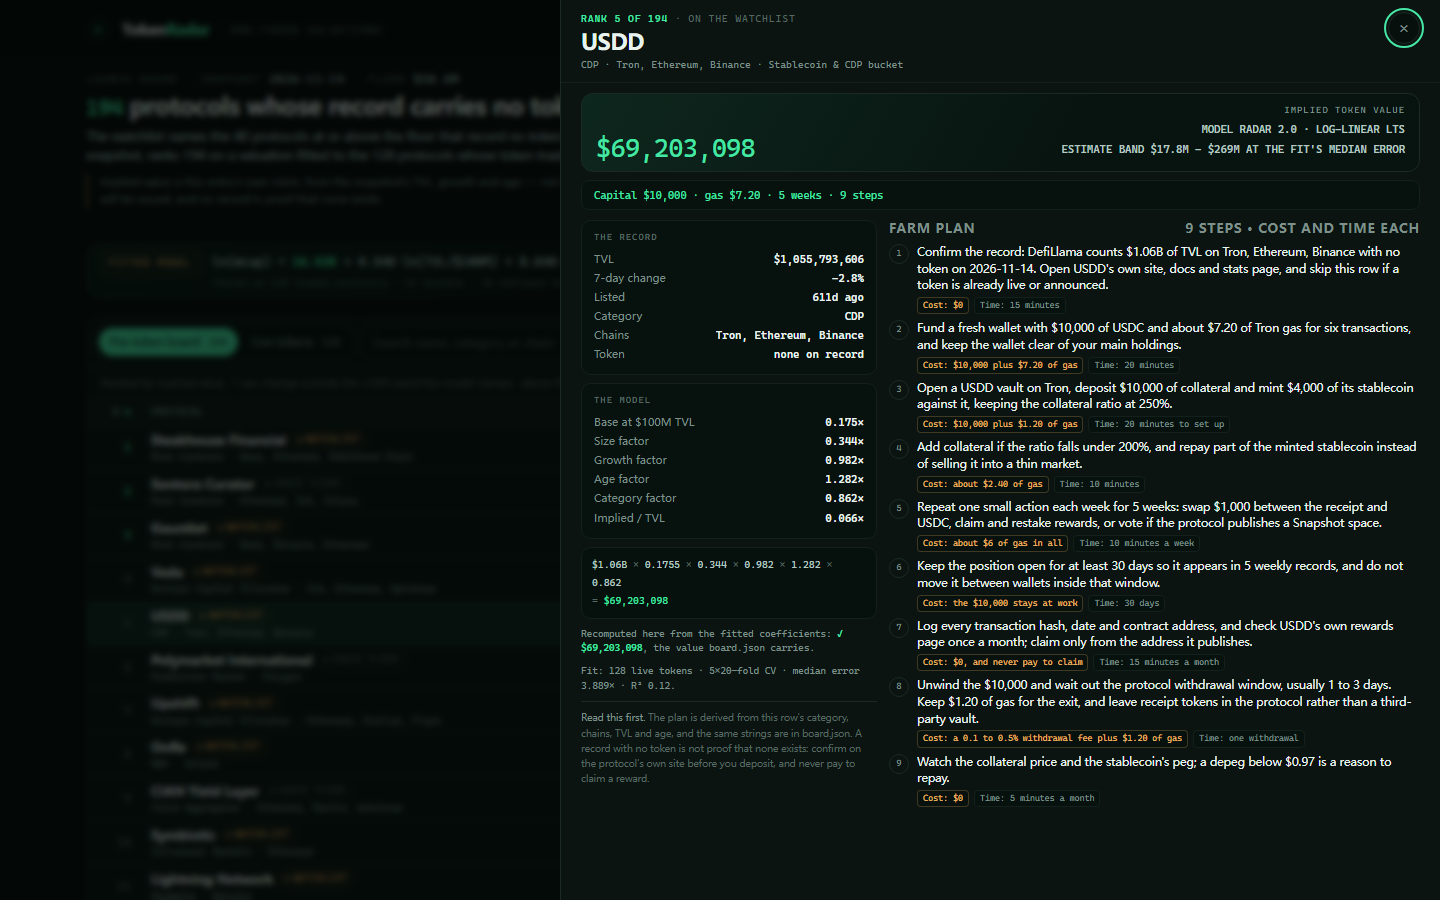
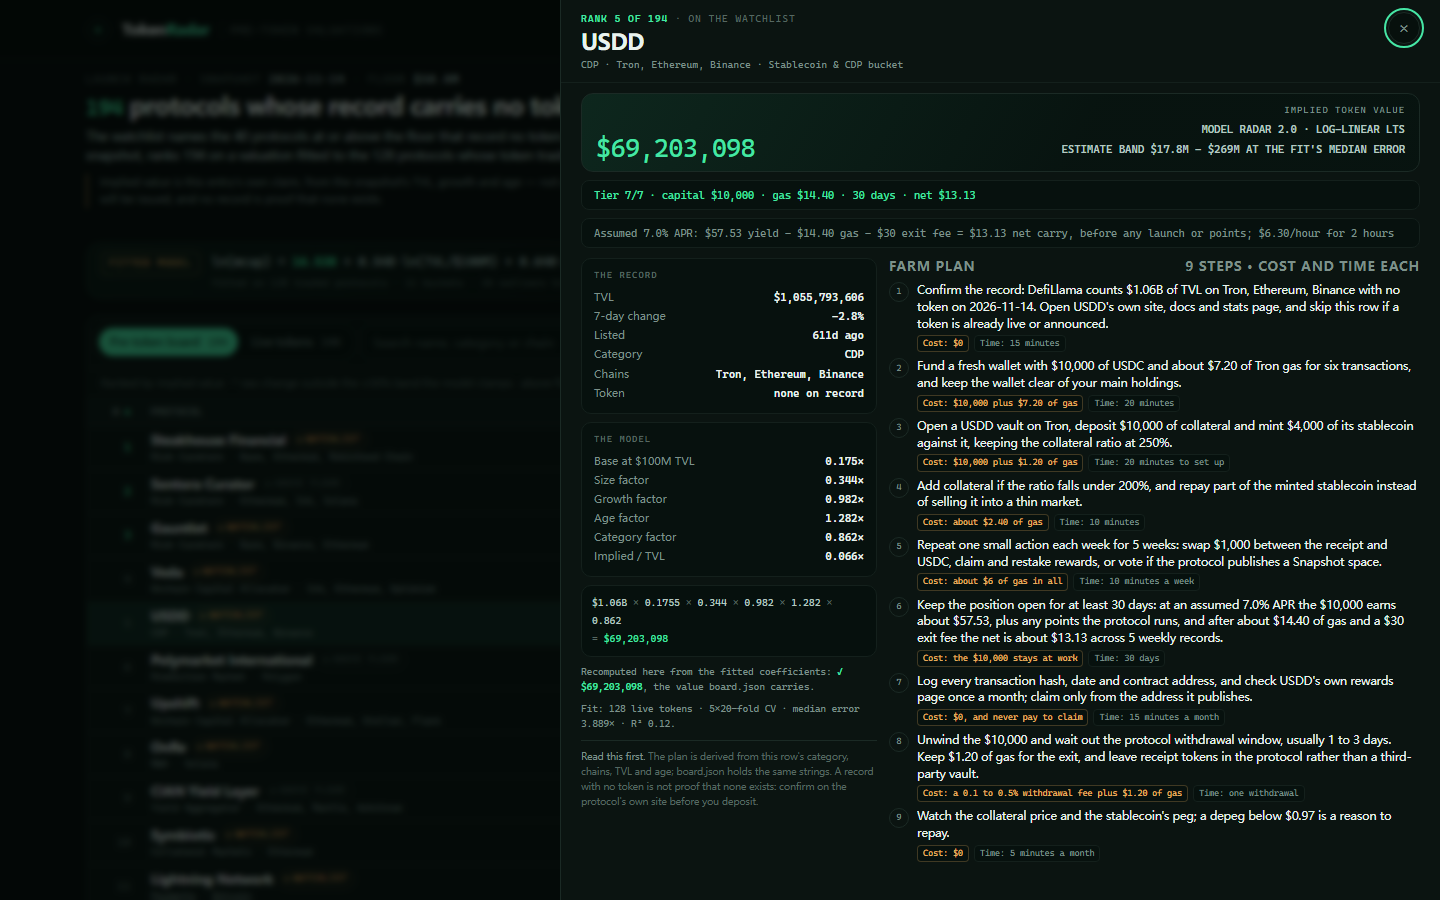
entry: v8 — costed farm verdicts, per-chain gas/fees, the model comparison

Changed region(s): [[0.4062, 0.2489, 1.0, 0.9644], [0.4375, 0.1867, 0.5625, 0.2178]]

diff --git a/dashboard/app.js b/dashboard/app.js
@@ -1,5 +1,5 @@
-// Token Radar — window.RADAR (main.ts) has the snapshot, model, board and live rows; every value is
-// recomputed from the coefficients and checked against board.json's.
+// Token Radar — the page reads window.RADAR (written by main.ts); every value is recomputed from the
+// fitted coefficients and checked against board.json.
 (function () {
   'use strict';
   var D = window.RADAR;
@@ -19,7 +19,7 @@
     if (!isNum(v)) return '—';
     return (v > 0 ? '+' : '') + v.toFixed(1) + '%';
   }
-  // The snapshot's 7-day change as reported, with a marker when the model clamps it to its band.
+  // The 7-day change as reported, marked when the model clamps it.
   function changeCell(row) {
     var raw = row.change_7d;
     if (!isNum(raw)) return { text: '—', cls: ' flat', title: '' };
@@ -59,7 +59,7 @@
     var value = Math.max(1, Math.round(row.tvl_usd * base * size * growth * age * category));
     return { base: base, size: size, growth: growth, age: age, category: category, value: value };
   }
-  // Plans travel in data.js; this exposes the page's arithmetic to the gate's browser check.
+  // Exposes the page's arithmetic to the gate's browser check.
   window.radarParts = partsFor;
   var state = { tab: 'pre', q: '', category: 'all', chain: 'all', age: 'all', watch: false, sort: 'rank', dir: 1, open: null };
   var maxImplied = 1;
@@ -140,23 +140,22 @@
     document.getElementById('foot-source').textContent = D.source;
     document.getElementById('foot-scope').textContent =
       'Floor ' + usdExact(D.floor_usd) + ' · ' + D.watchlist_size + ' watchlist · ' + (D.board_size - D.watchlist_size) +
-      ' more · ' + D.live_size + ' live · ' + D.as_of + '.';
+      ' more · ' + D.live_size + ' live.';
     var stats = document.getElementById('hero-stats');
     clear(stats);
     var A = D.audit;
     [
-      ['Snapshot', whole(A.total), '= ' + A.ranked + ' ranked + ' + A.excluded + ' excluded + ' + A.token_no_cap + ' no cap + ' + A.live + ' live', 'mint'],
-      ['Pre-token ranked', whole(A.ranked), A.watchlist + ' watchlist · ' + A.above_floor_others + ' above floor · ' + A.below_floor + ' below'],
+      ['Snapshot', whole(A.total), '= ' + A.ranked + ' + ' + A.excluded + ' + ' + A.token_no_cap + ' + ' + A.live, 'mint'],
+      ['Pre-token ranked', whole(A.ranked), A.watchlist + ' watchlist · ' + A.above_floor_others + ' above · ' + A.below_floor + ' below'],
       ['Watchlist', D.watchlist_size + ' / ' + D.watchlist_size, "the list is the floor: its names stay", 'mint'],
       ['Live tokens', whole(A.live), A.live_priced + ' priced · ' + (A.live - A.live_priced) + ' no cap'],
-      ['Excluded', whole(A.excluded), 'wrapped · staked · bridged · CEX · versioned'],
+      ['Products excluded', whole(A.excluded), 'wrapped/staked/bridged/CEX/versioned'],
       ['Token id, no cap', whole(A.token_no_cap)],
     ].forEach(function (s) {
       var row = el('div', 'fact' + (s[3] ? ' ' + s[3] : ''));
       row.appendChild(el('span', null, s[0]));
-      var value = el('b', null, s[1]);
-      if (s[2]) value.appendChild(el('em', null, ' ' + s[2]));
-      row.appendChild(value);
+      row.appendChild(el('b', null, s[1]));
+      if (s[2]) row.appendChild(el('em', null, s[2]));
       stats.appendChild(row);
     });
     var coef = D.model.coefficients;
@@ -396,7 +395,7 @@
     body.appendChild(fragment);
     var foot = document.getElementById('board-foot');
     clear(foot);
-    foot.appendChild(document.createTextNode("The live set is the model's own exam: these " + D.live_size + " protocols record a market cap (" + (D.audit.live - D.audit.live_priced) + " without a positive cap, marked), so the cap is fact, the fitted value the model's. " +
+    foot.appendChild(document.createTextNode("The live set is the model's own exam: these " + D.live_size + " protocols record a market cap (" + (D.audit.live - D.audit.live_priced) + " without a positive cap, marked), so the cap is fact, fitted value the model's. " +
       "Sorted by how close the fit came: a ratio near 1.00 means the model priced the record like the market did; the outliers are why the median out-of-sample error is " + M.validation.median_factor + "×."));
   }
   function openDetail(slug) {
@@ -434,6 +433,7 @@
     value.appendChild(cap);
     body.appendChild(value);
     if (row.budget) body.appendChild(el('div', 'd-budget', row.budget));
+    if (row.verdict) body.appendChild(el('div', 'd-budget muted', row.verdict));
     var grid = el('div', 'd-grid');
     var left = el('div', 'd-left');
     var record = el('div', 'd-box');
@@ -496,7 +496,7 @@
     left.appendChild(fit);
     var note = el('p', 'd-note');
     note.appendChild(bold('Read this first.'));
-    note.appendChild(document.createTextNode(' The plan is derived from this row\'s category, chains, TVL and age, and the same strings are in board.json. A record with no token is not proof that none exists: confirm on the protocol\'s own site before you deposit, and never pay to claim a reward.'));
+    note.appendChild(document.createTextNode(' The plan is derived from this row\'s category, chains, TVL and age; board.json holds the same strings. A record with no token is not proof that none exists: confirm on the protocol\'s own site before you deposit.'));
     left.appendChild(note);
     var plan = row.plan || [];
     var section = el('section', 'd-plan');

diff --git a/lib/farm.ts b/lib/farm.ts
@@ -196,15 +196,56 @@ function riskFor(input: FarmInput): string {
   return `Keep the position under a tenth of the farm budget, and revisit the record monthly.`;
 }
 
-/** The plan in one line for the detail drawer, and the short tag the board's Plan column shows. */
-export function farmBudget(input: FarmInput, steps: number): { budget: string; tag: string } {
-  const capital = capitalFor(input.tvl_usd);
-  const gas = gasOf(primaryChain(input.chains)) * 6;
-  const weeks = Math.ceil(holdDaysFor(input.age_days) / 7);
+/** The plan in one line for the detail drawer, the tag the board's Plan column shows, and the net verdict. */
+export function farmBudget(input: FarmInput, steps: number): { budget: string; tag: string; verdict: string } {
+  const n = farmNumbers(input);
   return {
-    budget: `Capital ${usd(capital)} · gas ${usd(gas)} · ${weeks} weeks · ${steps} steps`,
-    tag: `${steps} · ${capital < 1000 ? usd(capital) : `$${Math.round(capital / 1000)}k`}`,
+    budget: `Tier ${n.tier}/7 · capital ${usd(n.capital)} · gas ${usd(n.gasTotal)} · ${n.hold} days · net ${usdSigned(n.net)}`,
+    tag: `${steps} · ${n.capital < 1000 ? usd(n.capital) : `$${Math.round(n.capital / 1000)}k`}`,
+    verdict: `Assumed ${(n.apr * 100).toFixed(1)}% APR: ${usd(n.yieldUsd)} yield − ${usd(n.gasTotal)} gas − ${usd(n.fee)} exit fee = ${usdSigned(n.net)} net carry, before any launch or points; ${usdSigned(n.perHour)}/hour for ${Math.max(1, Math.round(n.hours))} hours`,
   };
+}
+
+/** An assumed market yield by bucket (the snapshot carries none), the exit fee and the seven capital tiers. */
+const BUCKET_APR: Record<string, number> = {
+  Lending: 0.055, 'Stablecoin & CDP': 0.07, DEX: 0.16, Yield: 0.09, Curators: 0.075, RWA: 0.06,
+  Staking: 0.045, Derivatives: 0.1, Bridge: 0.05, CEX: 0.05, Other: 0.06,
+};
+const EXIT_FEE = 0.003;
+const TIERS = [100, 250, 500, 1000, 2500, 5000, 10000];
+
+/** The plan's money: capital and its tier, gas over the whole hold, an assumed yield, the exit fee and the net. */
+interface FarmNumbers {
+  capital: number;
+  tier: number;
+  gasTotal: number;
+  weeks: number;
+  hold: number;
+  apr: number;
+  yieldUsd: number;
+  fee: number;
+  net: number;
+  hours: number;
+  perHour: number;
+}
+
+function farmNumbers(input: FarmInput): FarmNumbers {
+  const capital = capitalFor(input.tvl_usd);
+  const gas = gasOf(primaryChain(input.chains));
+  const hold = holdDaysFor(input.age_days);
+  const weeks = Math.ceil(hold / 7);
+  const gasTotal = gas * (7 + weeks);
+  const apr = BUCKET_APR[input.bucket] ?? 0.06;
+  const yieldUsd = capital * apr * (hold / 365);
+  const fee = capital * EXIT_FEE;
+  const net = yieldUsd - gasTotal - fee;
+  const hours = 1 + weeks / 6 + hold / 120;
+  return { capital, tier: TIERS.indexOf(capital) + 1, gasTotal, weeks, hold, apr, yieldUsd, fee, net, hours, perHour: net / hours };
+}
+
+/** A signed dollar figure: −$44 rather than $-44. */
+function usdSigned(value: number): string {
+  return `${value < 0 ? '−' : ''}${usd(Math.abs(value))}`;
 }
 
 /**
@@ -218,6 +259,7 @@ export function farmPlan(input: FarmInput): string[] {
   const hold = holdDaysFor(input.age_days);
   const weeks = Math.ceil(hold / 7);
   const chunk = Math.max(10, Math.round(capital / 10));
+  const n = farmNumbers(input);
   const steps: string[] = [];
 
   steps.push(
@@ -232,7 +274,7 @@ export function farmPlan(input: FarmInput): string[] {
     `Repeat one small action each week for ${weeks} weeks: swap ${usd(chunk)} between the receipt and USDC, claim and restake rewards, or vote if the protocol publishes a Snapshot space. Cost: about ${usd(gas * weeks)} of gas in all. Time: 10 minutes a week.`,
   );
   steps.push(
-    `Keep the position open for at least ${hold} days so it appears in ${weeks} weekly records, and do not move it between wallets inside that window. Cost: the ${usd(capital)} stays at work. Time: ${hold} days.`,
+    `Keep the position open for at least ${hold} days: at an assumed ${(n.apr * 100).toFixed(1)}% APR the ${usd(capital)} earns about ${usd(n.yieldUsd)}, plus any points the protocol runs, and after about ${usd(n.gasTotal)} of gas and a ${usd(n.fee)} exit fee the net is about ${usdSigned(n.net)} across ${weeks} weekly records. Cost: the ${usd(capital)} stays at work. Time: ${hold} days.`,
   );
   steps.push(
     `Log every transaction hash, date and contract address, and check ${input.name}'s own rewards page once a month; claim only from the address it publishes. Cost: $0, and never pay to claim. Time: 15 minutes a month.`,

diff --git a/dashboard/app.css b/dashboard/app.css
@@ -53,11 +53,12 @@ main { max-width: 1340px; margin: 0 auto; padding: 0 36px; }
 .lede { margin-top: 6px; max-width: none; color: var(--ink-2); font-size: 12.5px; }
 .disclaimer { margin-top: 8px; max-width: 96ch; padding-left: 12px; border-left: 2px solid rgba(234, 180, 99, 0.5); color: var(--muted); font-size: 11px; }
 .stats { display: grid; margin: 0; padding: 2px 16px; border: 1px solid var(--line); border-radius: var(--r); background: linear-gradient(180deg, rgba(255, 255, 255, 0.028), transparent); }
-.fact { display: grid; grid-template-columns: 1fr auto; gap: 1px 10px; padding: 2px 0; border-bottom: 1px solid var(--line-2); align-items: baseline; }
+.fact { display: grid; grid-template-columns: auto 50px minmax(0, 1fr); gap: 1px 8px; padding: 2px 0; border-bottom: 1px solid var(--line-2); align-items: baseline; }
 .fact:last-child { border-bottom: 0; }
-.fact span { font-family: var(--mono); font-size: 9.5px; letter-spacing: 0.08em; text-transform: uppercase; color: var(--muted); }
-.fact b { font-family: var(--mono); font-size: 14px; font-weight: 500; letter-spacing: -0.01em; white-space: nowrap; }
-.fact em { font-family: var(--mono); font-size: 9.5px; font-weight: 400; color: var(--muted); letter-spacing: 0; }
+.fact span { font-family: var(--mono); font-size: 9.5px; letter-spacing: 0.08em; text-transform: uppercase; color: var(--muted); white-space: nowrap; }
+.fact b { font-family: var(--mono); font-size: 14px; font-weight: 500; letter-spacing: -0.01em; text-align: right; white-space: nowrap; }
+.fact em { font-family: var(--mono); font-size: 9px; color: var(--muted); letter-spacing: 0; white-space: nowrap; overflow: hidden; text-overflow: ellipsis; }
+.d-budget.muted { color: var(--muted); }
 .fact.mint b { color: var(--mint); }
 
 /* model strip */

diff --git a/dashboard/index.html b/dashboard/index.html
@@ -70,8 +70,8 @@
         <tbody id="board-body"></tbody>
       </table>
       <div class="empty" id="board-empty" hidden>
-        <b>No protocol matches those filters</b>
-        <span>Clear the search or pick another category.</span>
+        <b>No protocol matches</b>
+        <span>Clear the search or pick a category.</span>
         <button type="button" class="chip" data-reset>Clear filters</button>
       </div>
     </div>

diff --git a/main.ts b/main.ts
@@ -181,6 +181,7 @@ for (let i = 0; i < board.length; i++) {
   const spread = fit.validation.median_factor;
   row.budget = budget.budget;
   row.tag = budget.tag;
+  row.verdict = budget.verdict;
   row.band = `estimate band ${shortUsd(row.implied / spread)} – ${shortUsd(row.implied * spread)} at the fit's median error`;
 }
 mkdirSync(out, { recursive: true });

diff --git a/lib/model.ts b/lib/model.ts
@@ -154,6 +154,7 @@ export interface RadarRow {
   budget?: string;
   tag?: string;
   band?: string;
+  verdict?: string;
 }
 
 /** A token-bearing protocol: the market's own value, shown beside the model's fitted value. */
